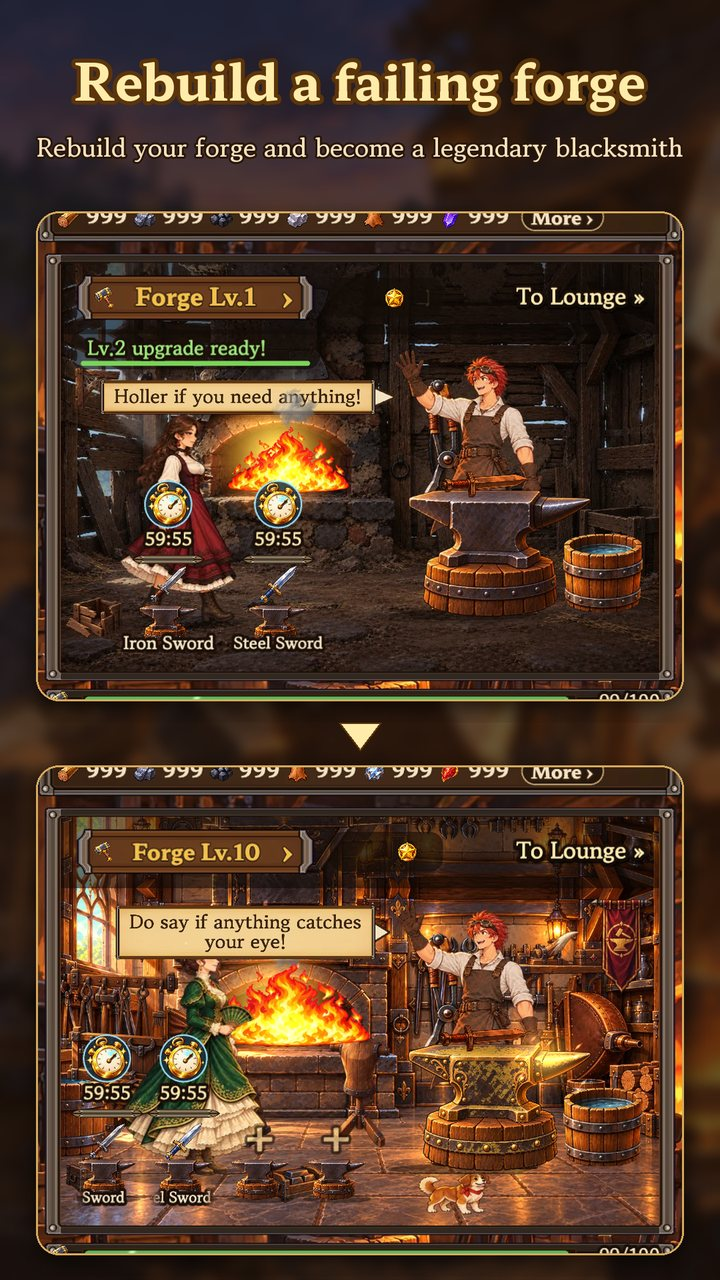
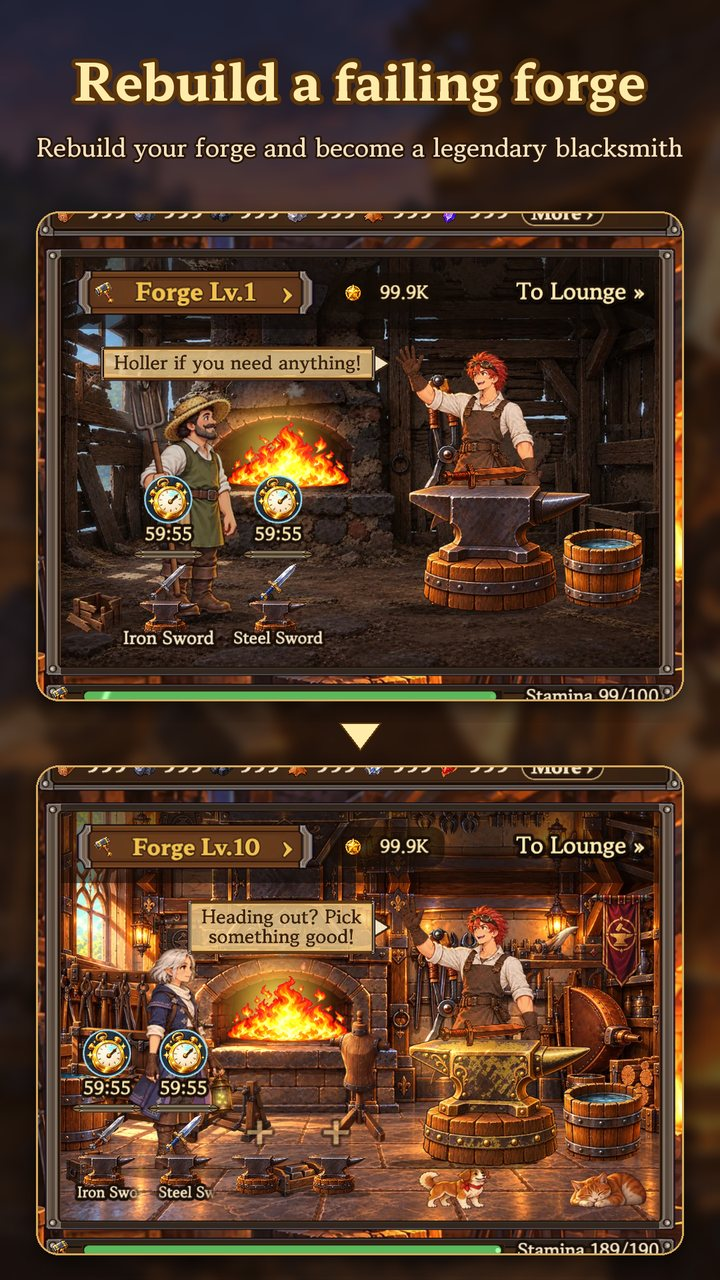
스샷 8장: 대련·작위 추가

diff --git a/index.html b/index.html
@@ -176,12 +176,12 @@
   <div class="features">
     <div class="feature"><b data-i18n="f1t">망해 가던 대장간 재건 프로젝트</b><p data-i18n="f1">대장간을 다시 일으켜 세우고 전설의 대장장이에 도전하세요</p></div>
     <div class="feature"><b data-i18n="f2t">전설의 검 10강 강화!!</b><p data-i18n="f2">성공하면 번쩍! 실패해도 지켜 낼 방법이 있어요</p></div>
-    <div class="feature"><b data-i18n="f3t">꼬마부터 공주님까지, 별별 의뢰가 와요!</b><p data-i18n="f3">기한 안에 만들어 주면 보너스 골드에 선물까지!</p></div>
-    <div class="feature"><b data-i18n="f4t">만든 장비를 판매하거나 모험가에게 장착시켜요</b><p data-i18n="f4">팔아서 돈을 모으고, 장착시켜 더 깊은 던전으로!</p></div>
-    <div class="feature"><b data-i18n="f5t">장비를 장착한 모험가를 던전에 보내 더 좋은 재료를 구하세요</b><p data-i18n="f5">던전으로 향하고, 싸우고, 재료를 캐는 모습을 실시간으로 체크할 수 있어요</p></div>
-    <div class="feature"><b data-i18n="f6t">숙소를 업그레이드시켜 더 많은 모험가와 함께하세요</b><p data-i18n="f6"></p></div>
+    <div class="feature"><b data-i18n="f3t">모험가 팀으로 다른 대장장이와 대련!</b><p data-i18n="f3">강화한 장비와 레어 특수효과로 승부를 뒤집어요</p></div>
+    <div class="feature"><b data-i18n="f4t">꼬마부터 공주님까지, 별별 의뢰가 와요!</b><p data-i18n="f4">기한 안에 만들어 주면 보너스 골드에 선물까지!</p></div>
+    <div class="feature"><b data-i18n="f5t">만든 장비를 판매하거나 모험가에게 장착시켜요</b><p data-i18n="f5">팔아서 돈을 모으고, 장착시켜 더 깊은 던전으로!</p></div>
+    <div class="feature"><b data-i18n="f6t">장비를 장착한 모험가를 던전에 보내 더 좋은 재료를 구하세요</b><p data-i18n="f6">던전으로 향하고, 싸우고, 재료를 캐는 모습을 실시간으로 체크할 수 있어요</p></div>
     <div class="feature"><b data-i18n="f7t">대장간이 커지면 내 집도 좋아져요!</b><p data-i18n="f7">쓰러져 가던 폐가가 아늑한 고급 집으로</p></div>
-    <div class="feature"><b data-i18n="f8t">전설의 대장장이에 도전!</b><p data-i18n="f8">레어 레시피를 모아 전설의 장비를 만드세요</p></div>
+    <div class="feature"><b data-i18n="f8t">랭킹에 따라 남작부터 대공까지!</b><p data-i18n="f8">작위를 받으면 판매·강화 특전이 따라와요</p></div>
   </div>
 
   <h2 data-i18n="shotsTitle">스크린샷</h2>
@@ -209,19 +209,19 @@
       tagline: "망해 가던 대장간 재건 프로젝트", sub: "장비를 만들어 팔고, 모험가를 보내고, 대장간을 다시 일으켜 보세요", soonNote: "곧 출시!", soon: "곧 출시돼요! 조금만 기다려 주세요 🔨",
       appStore: "App Store에서 다운로드", googlePlay: "Google Play에서 다운로드", videoSoon: "플레이 영상 준비 중이에요",
       aboutTitle: "이런 게임이에요",
-      f1t: "망해 가던 대장간 재건 프로젝트", f1: "대장간을 다시 일으켜 세우고 전설의 대장장이에 도전하세요", f2t: "전설의 검 10강 강화!!", f2: "성공하면 번쩍! 실패해도 지켜 낼 방법이 있어요", f3t: "꼬마부터 공주님까지, 별별 의뢰가 와요!", f3: "기한 안에 만들어 주면 보너스 골드에 선물까지!", f4t: "만든 장비를 판매하거나 모험가에게 장착시켜요", f4: "팔아서 돈을 모으고, 장착시켜 더 깊은 던전으로!", f5t: "장비를 장착한 모험가를 던전에 보내 더 좋은 재료를 구하세요", f5: "던전으로 향하고, 싸우고, 재료를 캐는 모습을 실시간으로 체크할 수 있어요", f6t: "숙소를 업그레이드시켜 더 많은 모험가와 함께하세요", f6: "", f7t: "대장간이 커지면 내 집도 좋아져요!", f7: "쓰러져 가던 폐가가 아늑한 고급 집으로", f8t: "전설의 대장장이에 도전!", f8: "레어 레시피를 모아 전설의 장비를 만드세요",
+      f1t: "망해 가던 대장간 재건 프로젝트", f1: "대장간을 다시 일으켜 세우고 전설의 대장장이에 도전하세요", f2t: "전설의 검 10강 강화!!", f2: "성공하면 번쩍! 실패해도 지켜 낼 방법이 있어요", f3t: "모험가 팀으로 다른 대장장이와 대련!", f3: "강화한 장비와 레어 특수효과로 승부를 뒤집어요", f4t: "꼬마부터 공주님까지, 별별 의뢰가 와요!", f4: "기한 안에 만들어 주면 보너스 골드에 선물까지!", f5t: "만든 장비를 판매하거나 모험가에게 장착시켜요", f5: "팔아서 돈을 모으고, 장착시켜 더 깊은 던전으로!", f6t: "장비를 장착한 모험가를 던전에 보내 더 좋은 재료를 구하세요", f6: "던전으로 향하고, 싸우고, 재료를 캐는 모습을 실시간으로 체크할 수 있어요", f7t: "대장간이 커지면 내 집도 좋아져요!", f7: "쓰러져 가던 폐가가 아늑한 고급 집으로", f8t: "랭킹에 따라 남작부터 대공까지!", f8: "작위를 받으면 판매·강화 특전이 따라와요",
       shotsTitle: "스크린샷", shotsSoon: "스크린샷 준비 중이에요", privacy: "개인정보처리방침", terms: "이용약관", support: "고객 지원", deleteAccount: "계정 삭제" },
     en: { title: "Blacksmith Idle: Adventure Age", logoAlt: "Blacksmith Idle: Adventure Age",
       tagline: "Rebuild a forge that was going under!", sub: "Craft and sell gear, send out heroes, and bring the old forge back to life", soonNote: "Coming soon!", soon: "Coming soon — hang tight! 🔨",
       appStore: "Download on the App Store", googlePlay: "Get it on Google Play", videoSoon: "Gameplay video coming soon",
       aboutTitle: "What's inside",
-      f1t: "Rebuild a failing forge", f1: "Rebuild your forge and become a legendary blacksmith", f2t: "Forging a legendary +10 sword!!", f2: "Success sparkles — and fails can be saved", f3t: "From kids to princesses — all kinds of requests!", f3: "Make it in time for bonus gold — and a gift!", f4t: "Sell what you make, or equip your heroes", f4: "Sell for gold, or equip them for deeper dungeons!", f5t: "Send geared-up heroes into dungeons for better materials", f5: "Watch them head into dungeons, fight and mine — live!", f6t: "Upgrade the lodge and team up with more heroes", f6: "", f7t: "A bigger forge, a nicer home!", f7: "From a run-down shack to a cozy fine house", f8t: "Become a legendary blacksmith!", f8: "Collect rare recipes and forge legendary gear",
+      f1t: "Rebuild a failing forge", f1: "Rebuild your forge and become a legendary blacksmith", f2t: "Forging a legendary +10 sword!!", f2: "Success sparkles — and fails can be saved", f3t: "Duel other blacksmiths with your hero team!", f3: "Enhanced gear and rare effects can turn the fight", f4t: "From kids to princesses — all kinds of requests!", f4: "Make it in time for bonus gold — and a gift!", f5t: "Sell what you make, or equip your heroes", f5: "Sell for gold, or equip them for deeper dungeons!", f6t: "Send geared-up heroes into dungeons for better materials", f6: "Watch them head into dungeons, fight and mine — live!", f7t: "A bigger forge, a nicer home!", f7: "From a run-down shack to a cozy fine house", f8t: "From Baron to Archduke, by your rank!", f8: "Titles bring sale and enhance perks",
       shotsTitle: "Screenshots", shotsSoon: "Screenshots coming soon", privacy: "Privacy Policy", terms: "Terms of Service", support: "Support", deleteAccount: "Delete Account" },
     ja: { title: "鍛冶屋育成：冒険の時代", logoAlt: "鍛冶屋育成：冒険の時代",
       tagline: "つぶれかけ鍛冶屋の再建物語", sub: "装備を作って売り、冒険者を送り出して、鍛冶屋をもう一度立て直そう", soonNote: "近日公開！", soon: "近日公開！もう少し待っててね 🔨",
       appStore: "App Storeからダウンロード", googlePlay: "Google Playで手に入れよう", videoSoon: "プレイ動画は準備中です",
       aboutTitle: "こんなゲームです",
-      f1t: "つぶれかけ鍛冶屋の再建物語", f1: "鍛冶屋を立て直して、伝説の鍛冶屋をめざそう", f2t: "伝説の剣、＋10強化！！", f2: "成功したらピカッ！失敗しても守る手あり", f3t: "子どもからお姫さままで、いろんな依頼が！", f3: "期限内に作れば、ボーナスゴールドにプレゼントまで！", f4t: "作った装備は売るか、冒険者に装備させよう", f4: "売ってお金を貯めるか、装備させてもっと深いダンジョンへ！", f5t: "装備した冒険者をダンジョンに送り、もっといい素材を集めよう", f5: "ダンジョンへ向かい、戦い、素材を掘る姿をリアルタイムでチェック！", f6t: "宿屋をアップグレードして、もっと多くの冒険者と一緒に！", f6: "", f7t: "鍛冶屋が育てば、わが家もグレードアップ！", f7: "おんぼろ小屋から、居心地のいい立派な家へ", f8t: "伝説の鍛冶屋をめざせ！", f8: "レアレシピを集めて伝説の装備を作ろう！",
+      f1t: "つぶれかけ鍛冶屋の再建物語", f1: "鍛冶屋を立て直して、伝説の鍛冶屋をめざそう", f2t: "伝説の剣、＋10強化！！", f2: "成功したらピカッ！失敗しても守る手あり", f3t: "冒険者チームでほかの鍛冶屋と対戦！", f3: "強化した装備とレア特殊効果で勝負をひっくり返そう", f4t: "子どもからお姫さままで、いろんな依頼が！", f4: "期限内に作れば、ボーナスゴールドにプレゼントまで！", f5t: "作った装備は売るか、冒険者に装備させよう", f5: "売ってお金を貯めるか、装備させてもっと深いダンジョンへ！", f6t: "装備した冒険者をダンジョンに送り、もっといい素材を集めよう", f6: "ダンジョンへ向かい、戦い、素材を掘る姿をリアルタイムでチェック！", f7t: "鍛冶屋が育てば、わが家もグレードアップ！", f7: "おんぼろ小屋から、居心地のいい立派な家へ", f8t: "ランキングで男爵から大公まで！", f8: "爵位がつくと販売・強化の特典つき",
       shotsTitle: "スクリーンショット", shotsSoon: "スクリーンショットは準備中です", privacy: "プライバシーポリシー", terms: "利用規約", support: "サポート", deleteAccount: "アカウント削除" }
   };
   const pick = () => {
